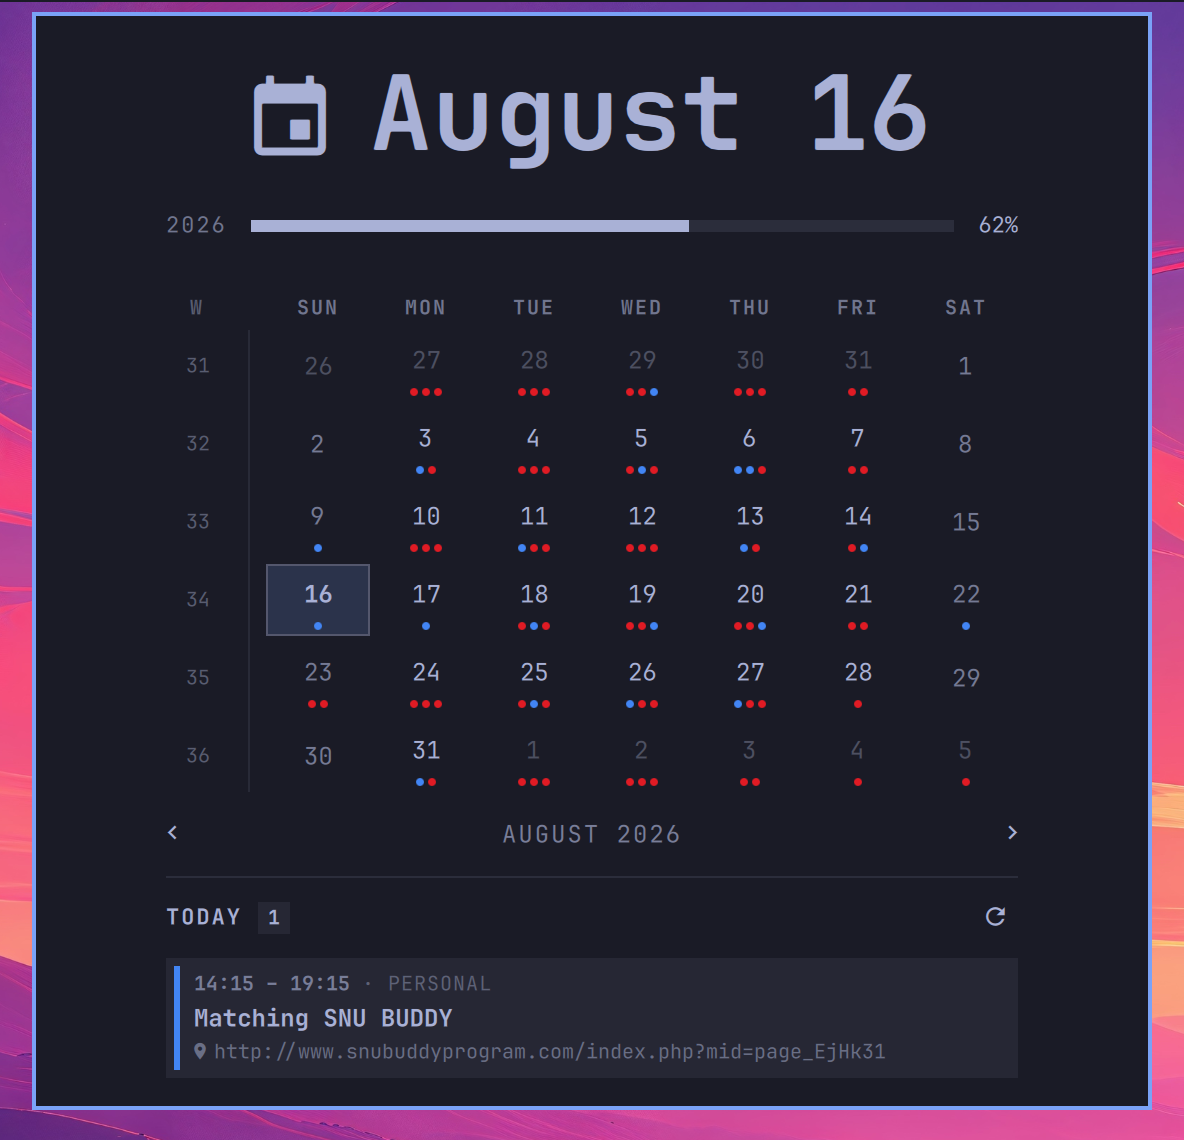
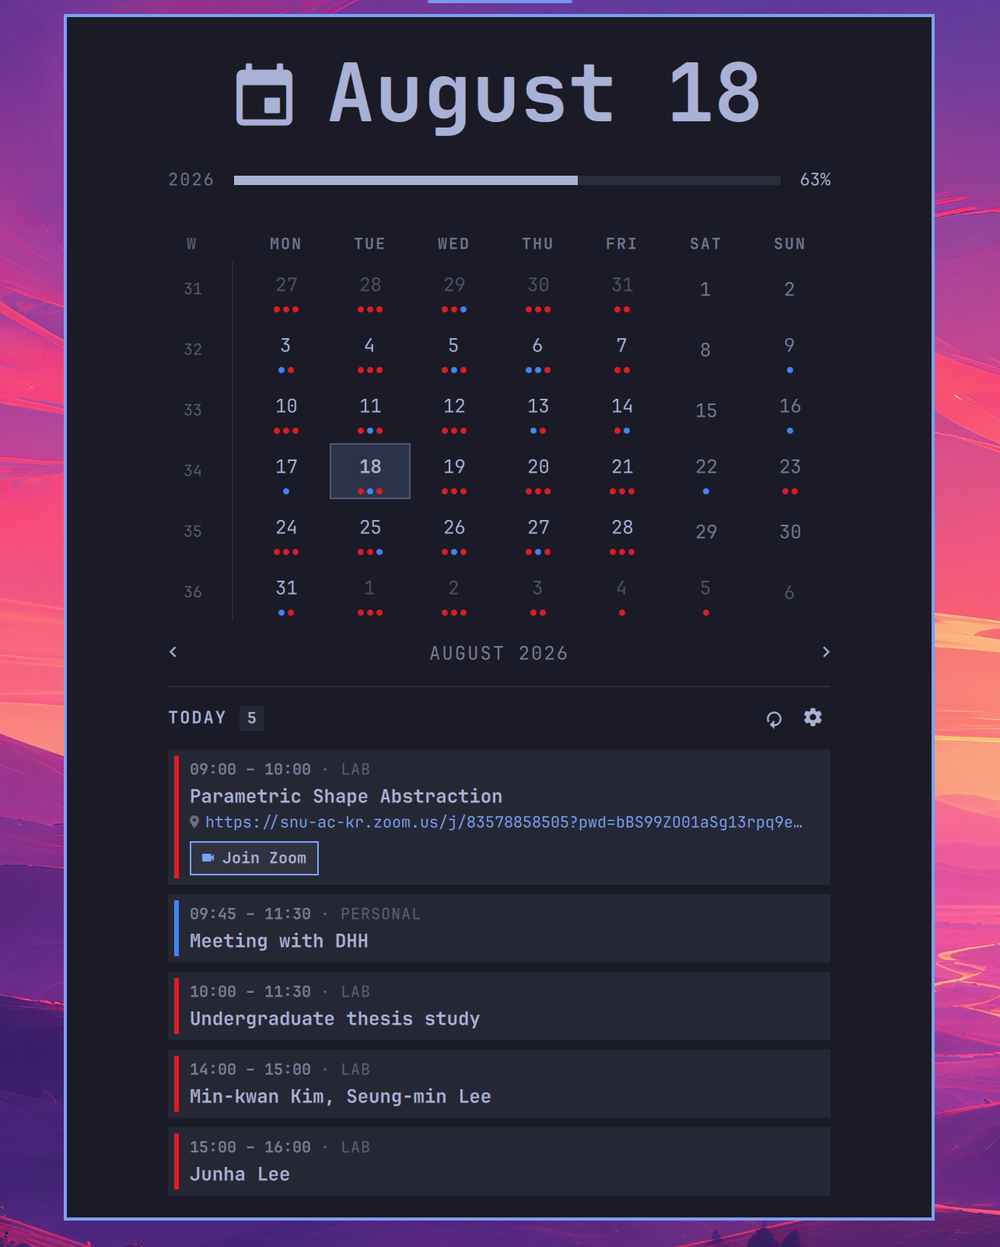
Refresh README screenshots with updated interface

diff --git a/README.md b/README.md
@@ -11,8 +11,8 @@ A fast, lightweight calendar and clock status bar plugin for Omarchy that syncs 
 
 | Preview | View |
 | --- | --- |
-| ![Calendar Panel with single event](close-view1.png) | Single event view |
-| ![Calendar Panel with multiple events](close-view2.png) | Multi-calendar agenda view |
+| ![Calendar panel with several events in one day](close-view1.png) | Several events in one day |
+| ![Preferences menu](close-view2.png) | Preferences menu |
 
 ## Features
 
